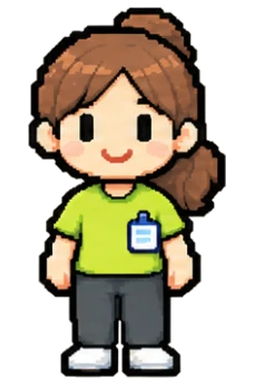
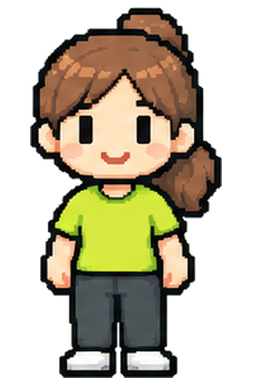
여성형 운동복에서 사원증 빼기(기본 의상은 사원증 없이)
- 보완본 시트의 여성형 운동복에는 사원증이 있어, 사원증이 없는 첫 시안의 그림을 같은 키로 맞춰 사용

Changed region(s): [[0.0938, 0.0, 0.9062, 1.0], [0.5, 0.125, 0.5312, 0.1562], [0.1875, 0.25, 0.2188, 0.2812]]

diff --git a/scripts/cut-outfit-art.py b/scripts/cut-outfit-art.py
@@ -10,12 +10,14 @@ from scipy import ndimage as ndi
 SRC = 'design/outfit-sheet-2026-11-19/outfit-sheet-v2.webp'
 OUT = Path('public/game/v22/characters')
 KEYS = ['workout', 'nurse', 'doctor', 'office', 'hoodie', 'scrub', 'glasses', 'vest']
-im = Image.open(SRC).convert('RGB'); a = np.asarray(im)
-H = im.height
-light = a.min(2) >= 215
-lab, n = ndi.label(light); sizes = ndi.sum(light, lab, range(1, n + 1))
-bg = np.isin(lab, [i + 1 for i, s in enumerate(sizes) if s > 6000])   # 바깥 바탕만 배경(그림 안의 흰 가운·신발은 남김)
-fg = ndi.binary_opening(~bg, structure=np.ones((3, 3)))
+def load(src):
+    im = Image.open(src).convert('RGB'); a = np.asarray(im)
+    light = a.min(2) >= 215
+    lab, n = ndi.label(light); sizes = ndi.sum(light, lab, range(1, n + 1))
+    bg = np.isin(lab, [i + 1 for i, s in enumerate(sizes) if s > 6000])   # 바깥 바탕만 배경(그림 안의 흰 가운·신발은 남김)
+    return a, ndi.binary_opening(~bg, structure=np.ones((3, 3)))
+a, fg = load(SRC)
+H = a.shape[0]
 rows = []
 for y0, y1 in ((0, H // 2), (H // 2, H)):
     m = np.zeros_like(fg); m[y0:y1] = fg[y0:y1]
@@ -24,7 +26,7 @@ for y0, y1 in ((0, H // 2), (H // 2, H)):
            if sl[0].stop - sl[0].start >= 150 and sl[1].stop - sl[1].start >= 60]
     row.sort(); assert len(row) == 8, len(row); rows.append(row)
 
-def cut(box):
+def cut(box, a=a, fg=fg):
     x0, y0, x1, y1 = box
     m = fg[y0:y1, x0:x1]
     l, k = ndi.label(m); m = l == 1 + int(np.argmax(ndi.sum(m, l, range(1, k + 1))))   # 가장 큰 덩어리 = 캐릭터
@@ -35,6 +37,12 @@ def cut(box):
     return c.crop((xs.min(), ys.min(), xs.max() + 1, ys.max() + 1))
 
 sprites = {g: [cut(b) for b in rows[r]] for r, g in enumerate('mf')}
+# 기본 의상(운동복)은 사원증 없이(11-19 TK). 보완본 시트의 여성형 운동복에는 사원증이 달려 있어,
+# 사원증이 없는 첫 시안(outfit-sheet-original.png)의 여성형 운동복을 같은 키로 맞춰 대신 씁니다.
+a1, fg1 = load('design/outfit-sheet-2026-11-19/outfit-sheet-original.png')
+old = cut((221, 160, 378, 459), a1, fg1)
+k = sprites['f'][0].height / old.height
+sprites['f'][0] = old.resize((round(old.width * k), round(old.height * k)), Image.LANCZOS)
 s = 372 / max(sp.height for sp in sprites['m'])
 for g in 'mf':
     for k, sp in zip(KEYS, sprites[g]):
